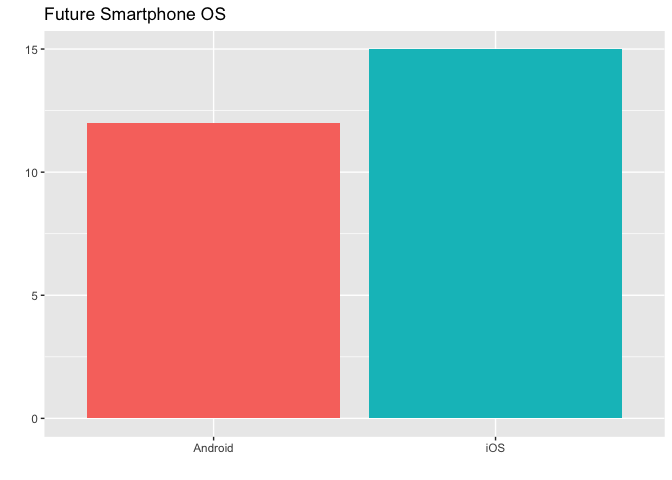
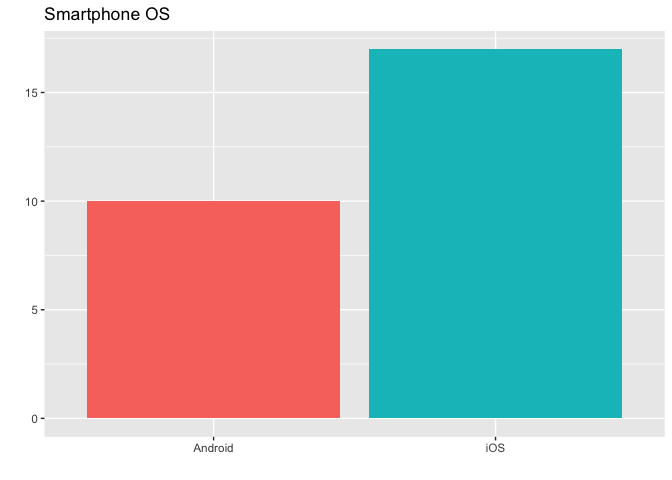
Finalized report

diff --git a/eda_viz.md b/eda_viz.md
@@ -1,26 +1,51 @@
 EDA
 ================
 
-``` r
-suppressPackageStartupMessages(library(tidyverse))
-```
+# An investigation into the relationship between peoples smartphone choices and their laptop choices.
 
-    ## Warning: package 'tibble' was built under R version 3.5.2
+## Background
 
-    ## Warning: package 'purrr' was built under R version 3.5.2
+The smartphone operating system industry is dominated by iOS and Android
+and the laptop operating system industry is dominated by Mac OS and
+Windows (also Linux, but for the purposes of this investigation it falls
+under ‘Other’), we want to see if having there is any relation between
+the phones that people own and their PC operating system choices.
 
-    ## Warning: package 'dplyr' was built under R version 3.5.2
+Our hypothesis is that the choice of phone will influence the choice of
+laptop in the individuals. For example, people with an iPhone will have
+a non-negligible preference for purchasing/owning a Mac, and people with
+an Android will edge towards a Windows or Linux OS.
 
-``` r
-suppressPackageStartupMessages(library(knitr))
-suppressPackageStartupMessages(library(ggplot2))
-suppressPackageStartupMessages(library(broom))
-suppressPackageStartupMessages(library(ggthemes))
-```
+## Reading the data
 
-``` r
-kable(head(smart_survey))
-```
+We asked our respondents a series of questions related to their
+smartphones and PCs that included their level of satisfaction and the
+type of OS required at the work. The columns are outlined below
+
+  - **smartphone\_OS**: The type of smartphone that they currently own
+  - **num\_smartphone\_OS**: Level of satisfaction with smartphone
+  - **smartphone\_OS\_years**: Number of years they’ve owned the
+    smartphone
+  - **pre\_smartphone\_OS**: The smartphone that was owned before the
+    current one
+  - **future\_smartphone\_OS**: The smartphone they would purchase today
+    if they had the choice
+  - **family\_smartphone\_OS**: The smartphone OS that is most common
+    amongst their family
+  - **friend\_smartphone\_OS**: The smartphone OS that is most common
+    amongst their friends
+  - **PC\_OS**: The PC/Laptop operating system they are currently
+    running
+  - **num\_PC\_OS**: Level of satisfaction with PC
+  - **PC\_OS\_years**: How long they’ve owned their current laptop/PC
+  - **future\_PC\_OS**: The PC/Laptop OS they would purchase today if
+    they had the choice
+  - **workplace\_PC\_OS**: The PC/Laptop OS that is required by their
+    workplace
+
+Below, we show a snippet of the first six rows of our data, that is read
+into our analysis
+pipeline.
 
 | smartphone\_OS | num\_smartphone\_OS | smartphone\_OS\_years | pre\_smartphone\_OS | future\_smartphone\_OS | family\_smartphone\_OS | friend\_smartphone\_OS | PC\_OS | num\_PC\_OS | PC\_OS\_years | future\_PC\_OS | workplace\_PC\_OS     |
 | :------------- | ------------------: | --------------------: | :------------------ | :--------------------- | :--------------------- | :--------------------- | :----- | ----------: | ------------: | :------------- | :-------------------- |
@@ -31,99 +56,90 @@ kable(head(smart_survey))
 | iOS            |                   4 |                     3 | iOS                 | iOS                    | iOS                    | iOS                    | MacOS  |           3 |             1 | iOS            | Either/Doesn’t Matter |
 | Android        |                   3 |                     2 | Android             | Android                | Android                | iOS                    | MacOS  |           5 |             3 | iOS            | Either/Doesn’t Matter |
 
-``` r
-sum_stats <- smart_survey %>%
-  select(num_smartphone_OS,smartphone_OS_years,num_PC_OS,PC_OS_years) %>%
-  summary()
+## Exploratory Analysis
 
-kable(sum_stats)
-```
+First, let’s create some summary tables of the responses to see what
+kind of a spread we’ve got.
 
-|  | num\_smartphone\_OS | smartphone\_OS\_years |  num\_PC\_OS  | PC\_OS\_years |
-|  | :------------------ | :-------------------- | :-----------: | :-----------: |
-|  | Min. :2.000         | Min. :1.000           |  Min. :3.000  |  Min. :1.000  |
-|  | 1st Qu.:3.500       | 1st Qu.:1.000         | 1st Qu.:4.000 | 1st Qu.:1.000 |
-|  | Median :4.000       | Median :2.000         | Median :4.000 | Median :1.000 |
-|  | Mean :4.148         | Mean :2.074           |  Mean :4.185  |  Mean :1.963  |
-|  | 3rd Qu.:5.000       | 3rd Qu.:3.000         | 3rd Qu.:5.000 | 3rd Qu.:3.000 |
-|  | Max. :5.000         | Max. :4.000           |  Max. :5.000  |  Max. :5.000  |
+#### Smartphone OS counts
 
-![](eda_viz_files/figure-gfm/unnamed-chunk-4-1.png)<!-- -->
+| Smartphone OS | Count |
+| :------------ | ----: |
+| Android       |    10 |
+| iOS           |    17 |
 
-``` r
-smart_survey %>%
-  filter(smartphone_OS=="iOS") %>%
-  ggplot(aes(x=num_smartphone_OS)) +
-  geom_bar() +
-  ggtitle("Level of satisfaction of iOS users") +
-  ylab("") +
-  xlab("") +
-  expand_limits(x=1) 
-```
+#### Laptop OS Counts
 
-![](eda_viz_files/figure-gfm/unnamed-chunk-5-1.png)<!-- -->
+| PC OS   | Count |
+| :------ | ----: |
+| MacOS   |    16 |
+| Other   |     1 |
+| Windows |    10 |
 
-``` r
-smart_survey %>%
-  filter(smartphone_OS=="Android") %>%
-  ggplot(aes(x=num_smartphone_OS)) +
-  geom_bar() +
-  ggtitle("Level of satisfaction of Android users") +
-  ylab("") +
-  xlab("") +
-  expand_limits(x=1)
-```
+Now, we decided to look at the **number of combinations between
+smartphone and PC OS**
 
-![](eda_viz_files/figure-gfm/unnamed-chunk-6-1.png)<!-- -->
+| Smartphone OS | PC OS   | Count |
+| :------------ | :------ | ----: |
+| Android       | MacOS   |     4 |
+| Android       | Windows |     6 |
+| iOS           | MacOS   |    12 |
+| iOS           | Other   |     1 |
+| iOS           | Windows |     4 |
+
+#### Smartphones
+
+Let’s take a closer look at the Smartphones category
 
 ![](eda_viz_files/figure-gfm/unnamed-chunk-7-1.png)<!-- -->
 
+Looking at the level of satisfaction that iOS users reported
+
 ![](eda_viz_files/figure-gfm/unnamed-chunk-8-1.png)<!-- -->
 
-``` r
-smart_survey %>%
-  filter(PC_OS=="MacOS") %>%
-  ggplot(aes(x=num_PC_OS)) +
-  geom_bar() +
-  ggtitle("Level of satisfaction of MacOS users") +
-  ylab("") +
-  xlab("") +
-  expand_limits(x=1)
-```
+And the level of satisfaction that Android users reported
 
 ![](eda_viz_files/figure-gfm/unnamed-chunk-9-1.png)<!-- -->
 
-``` r
-smart_survey %>%
-  filter(PC_OS=="Windows") %>%
-  ggplot(aes(x=num_PC_OS)) +
-  geom_bar() +
-  ggtitle("Level of satisfaction of Windows users") +
-  ylab("") +
-  xlab("") +
-  expand_limits(x=1)
-```
+There appears to be a little more dissatisfaction with their current
+smartphone OS amongst the Android group. The iOS group on the other hand
+is robust with their satisfaction with their phones OS; with almost all
+responses in the 4 or 5 range.
+
+Let’s see if this translates into what future phones they might
+purchase.
 
 ![](eda_viz_files/figure-gfm/unnamed-chunk-10-1.png)<!-- -->
 
-``` r
-smart_survey %>%
-  ggplot(aes(x=future_PC_OS)) +
-  geom_bar() +
-  xlab("") +
-  ylab("") +
-  ggtitle("Future PC Operating System")
-```
+Interestingly enough, Android saw a slight increase in the desired
+smartphone OS category compared to iOS.
+
+#### Laptop OS
+
+Now let’s take a closer look at the Laptop OS category
 
 ![](eda_viz_files/figure-gfm/unnamed-chunk-11-1.png)<!-- -->
 
-``` r
-smart_survey %>%
-  filter(PC_OS %in% c("Windows","MacOS")) %>%
-  ggplot(aes(x=PC_OS,y=smartphone_OS)) +
-  geom_bin2d() +
-  ylab("Smartphone OS") +
-  xlab("Laptop OS")
-```
+Looking at the level of satisfaction that MacOS users reported out of
+five,
 
 ![](eda_viz_files/figure-gfm/unnamed-chunk-12-1.png)<!-- -->
+
+And the level of satisfaction reported by Windows users
+
+![](eda_viz_files/figure-gfm/unnamed-chunk-13-1.png)<!-- -->
+
+Similarly to the Android group above, the Windows group shows a little
+bit of a lower satisfaction overall with their current OS than the MacOS
+group.
+
+#### Combinations of Smartphone,Laptop OS
+
+Finally, looking at a bin2d graph of the current smartphone platforms
+vs. the current laptop platforms.
+
+![](eda_viz_files/figure-gfm/unnamed-chunk-14-1.png)<!-- -->
+
+Clearly as the iOS, MacOS syndicate is the most represented, it is the
+lightest on the graph. Our outliers, the cross-platform users, are
+poorly represented amongst this sample, but still non-negligible.
